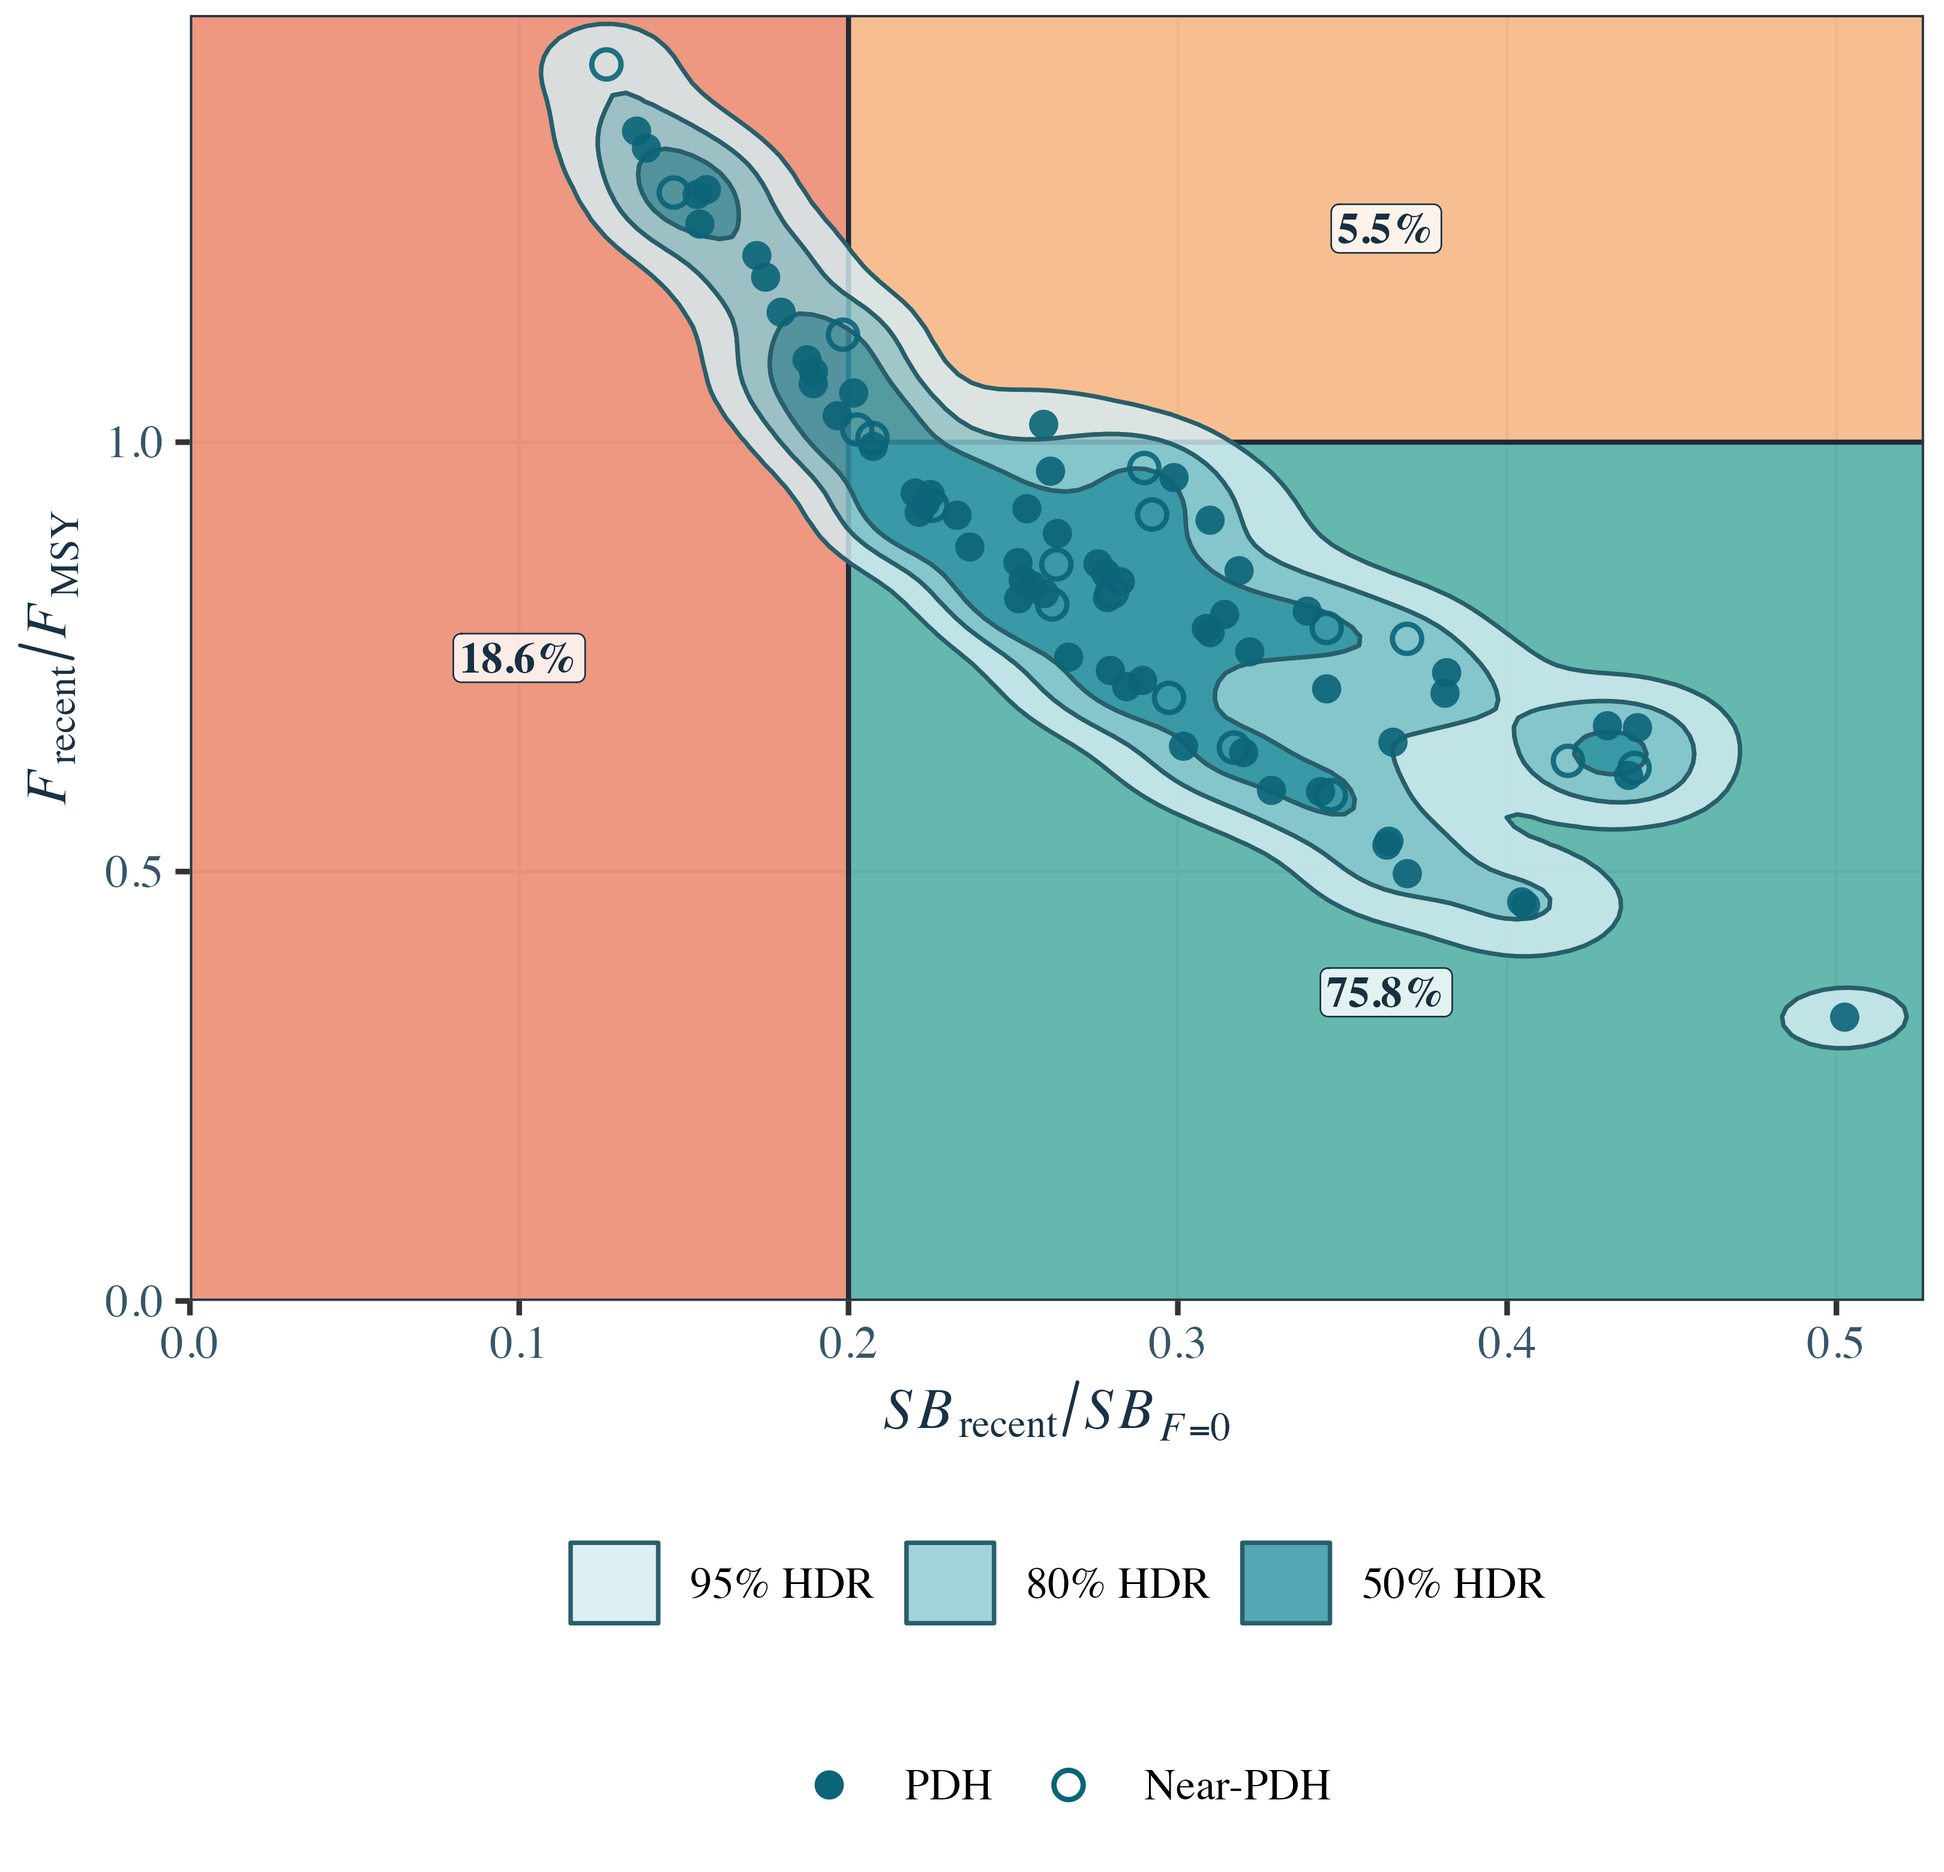
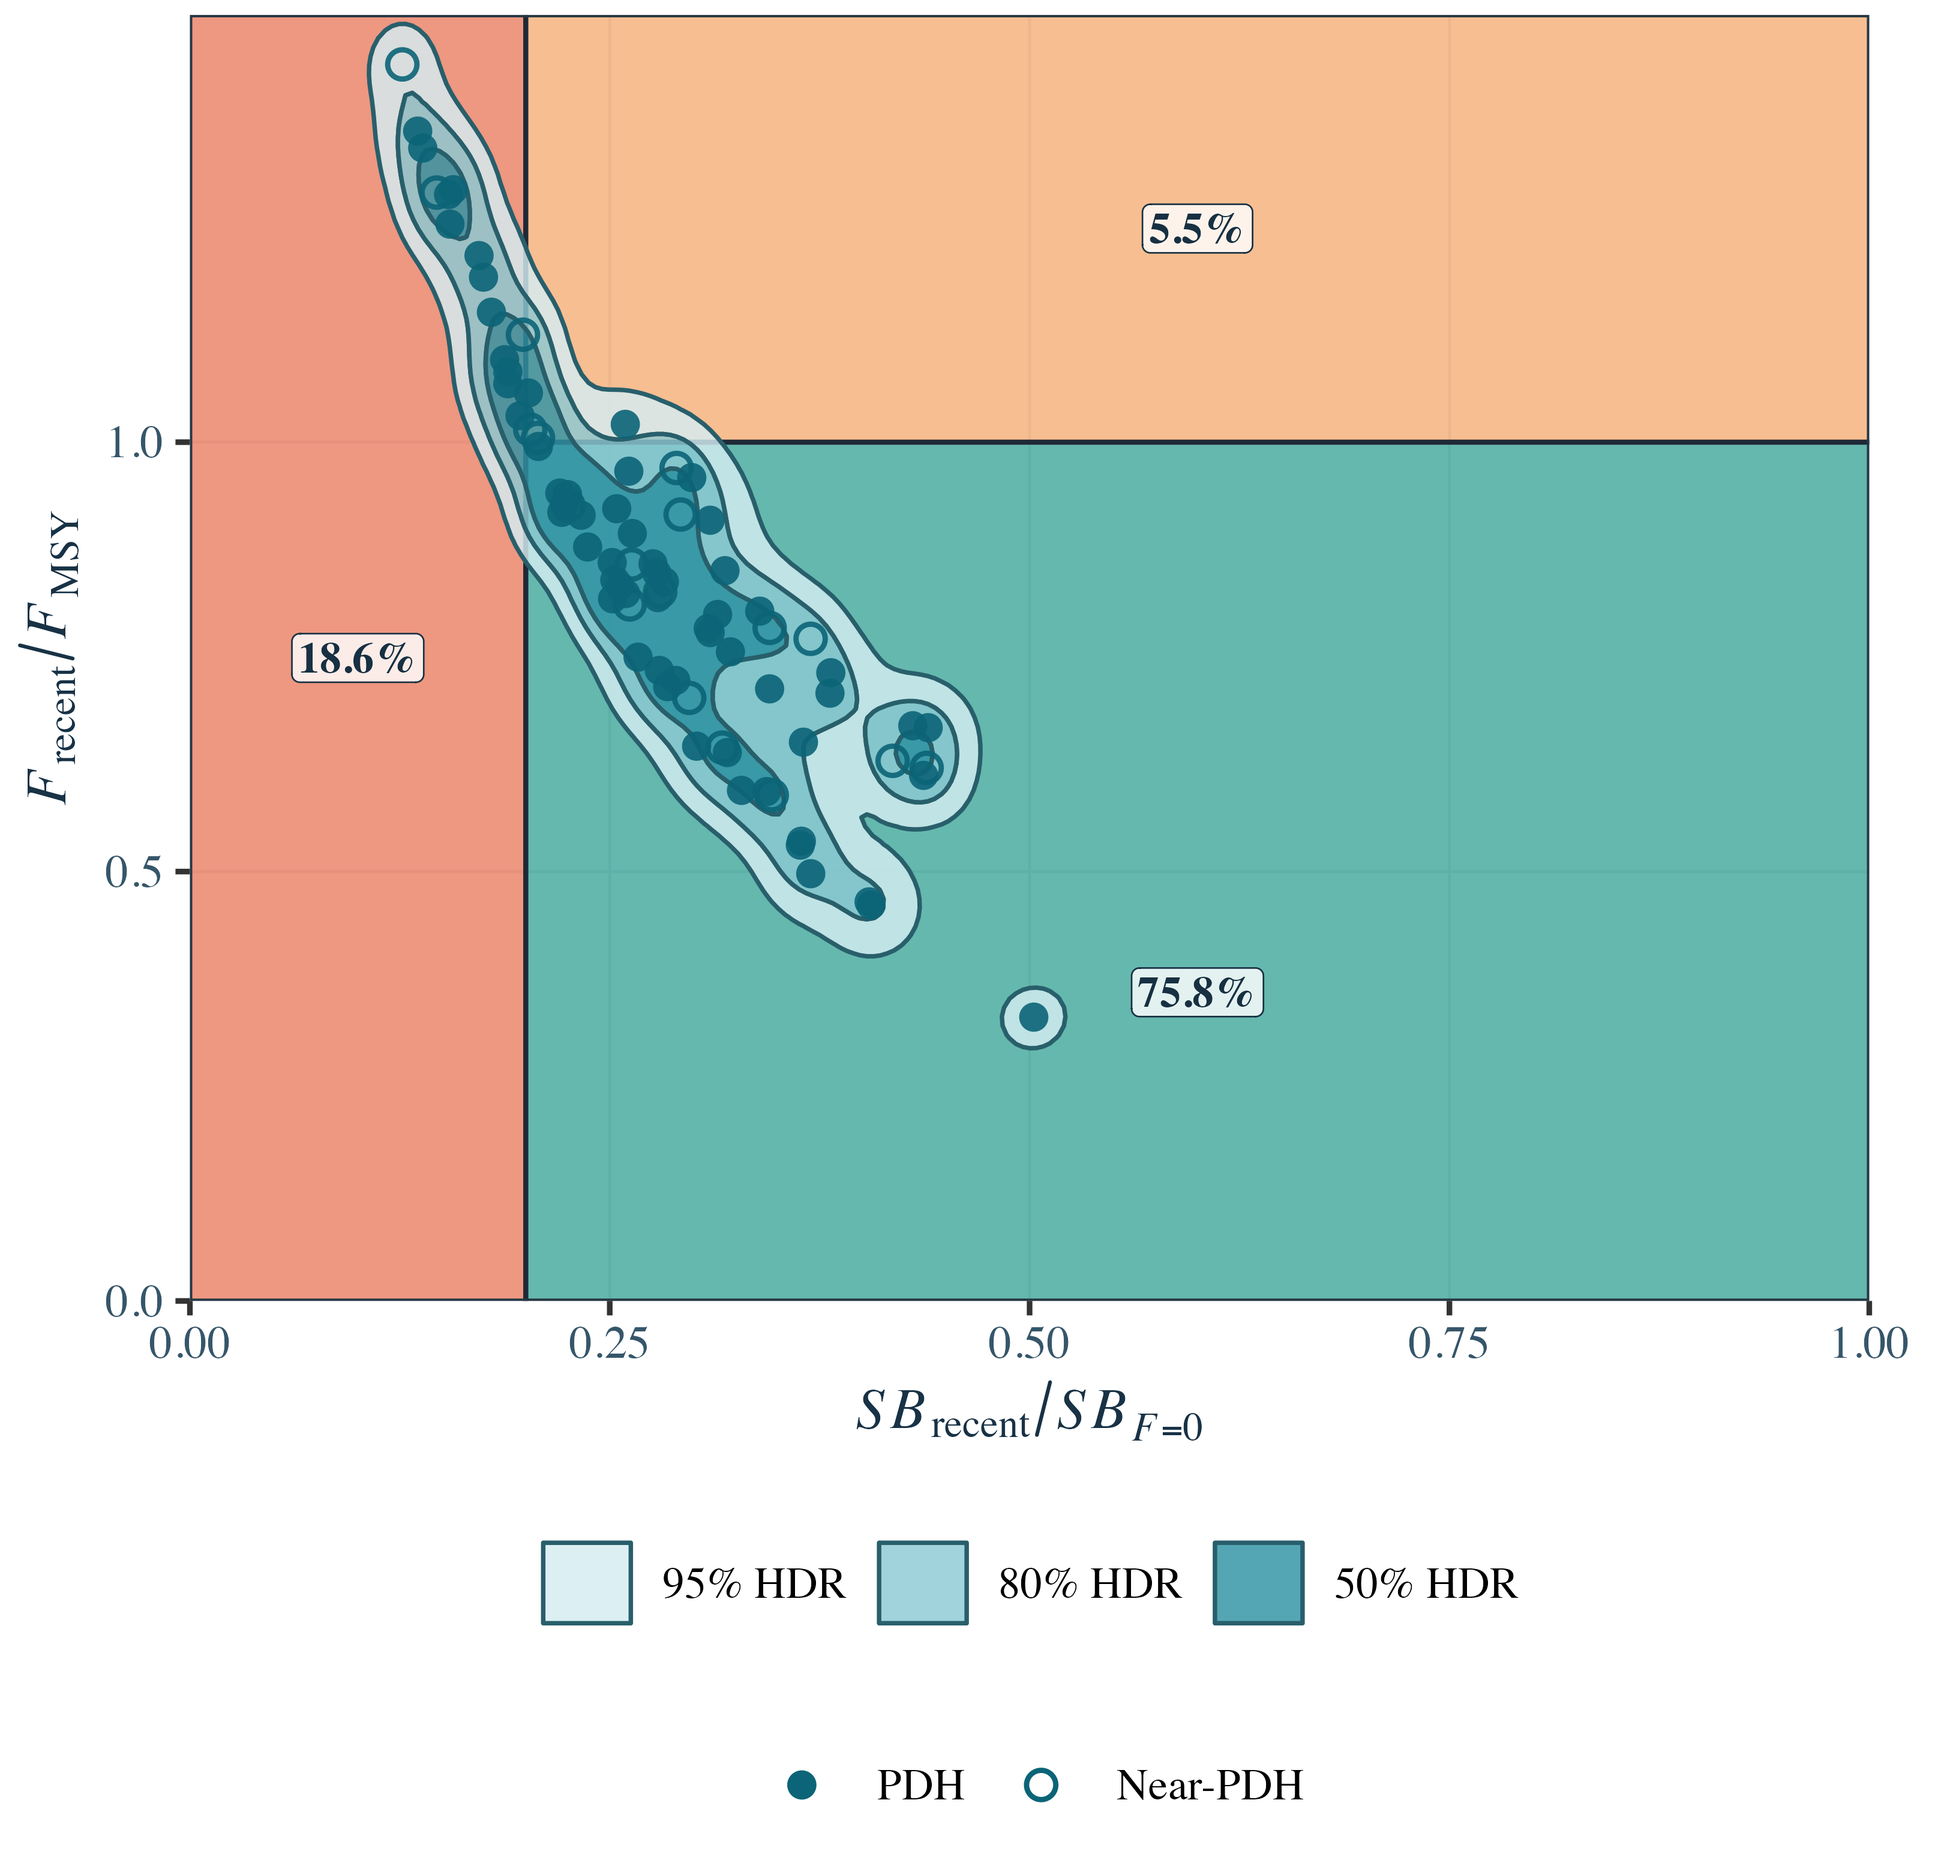
Extend separate Majuro status plot axis

diff --git a/figures_extra/README.md b/figures_extra/README.md
@@ -1,6 +1,6 @@
 # Separate current stock status figures
 
-`kobe-status.png` and `majuro-status.png` are separate exports of the two panels in `figures/combined_kobe_majuro_status.png`. Each includes the full HDR and Hessian legend. They use the same retained models, Hessian mixture, category probabilities and plotting functions as the combined report figure; the individual layout is adapted for a two-row legend.
+`kobe-status.png` and `majuro-status.png` are separate exports of the two panels in `figures/combined_kobe_majuro_status.png`. Each includes the full HDR and Hessian legend. They use the same retained models, Hessian mixture, category probabilities and plotting functions as the combined report figure; the individual layout is adapted for a two-row legend. The separate Majuro plot uses an x-axis from 0 to 1.0.
 
 Generated from the [ensemble repository at fb715b2](https://github.com/PacificCommunity/ofp-sam-bet-2026-ensemble/tree/fb715b2) using `Rscript extra/export-separate-status.R`, with 300 dpi PNG output. See its `extra/README.md` for dependencies and reproduction details. The existing report and combined figure are unchanged.
 
@@ -8,4 +8,4 @@ The four `dynamic-*.png` files separately export panels (a)–(d) of `figures/ti
 
 ## Separate exports
 
-Six vector PDFs are available in `figures_pdf/` at the repository root. The `highres/` directory contains corresponding 600 dpi PNGs. Current-status PNGs are 3240 × 3120 pixels; dynamic PNGs are 3240 × 3000 pixels. The current-status legend labels the Hessian classifications as `PDH` and `Near-PDH`. Generated using the [ensemble export scripts at 4bbee1c](https://github.com/PacificCommunity/ofp-sam-bet-2026-ensemble/tree/4bbee1c/extra). The main report and original combined figures are unchanged.
+Six vector PDFs are available in `figures_pdf/` at the repository root. The `highres/` directory contains corresponding 600 dpi PNGs. Current-status PNGs are 3240 × 3120 pixels; dynamic PNGs are 3240 × 3000 pixels. The current-status legend labels the Hessian classifications as `PDH` and `Near-PDH`. The current-status Majuro plot was regenerated using the [ensemble export script at 7df261d](https://github.com/PacificCommunity/ofp-sam-bet-2026-ensemble/tree/7df261d/extra). The main report and original combined figures are unchanged.
